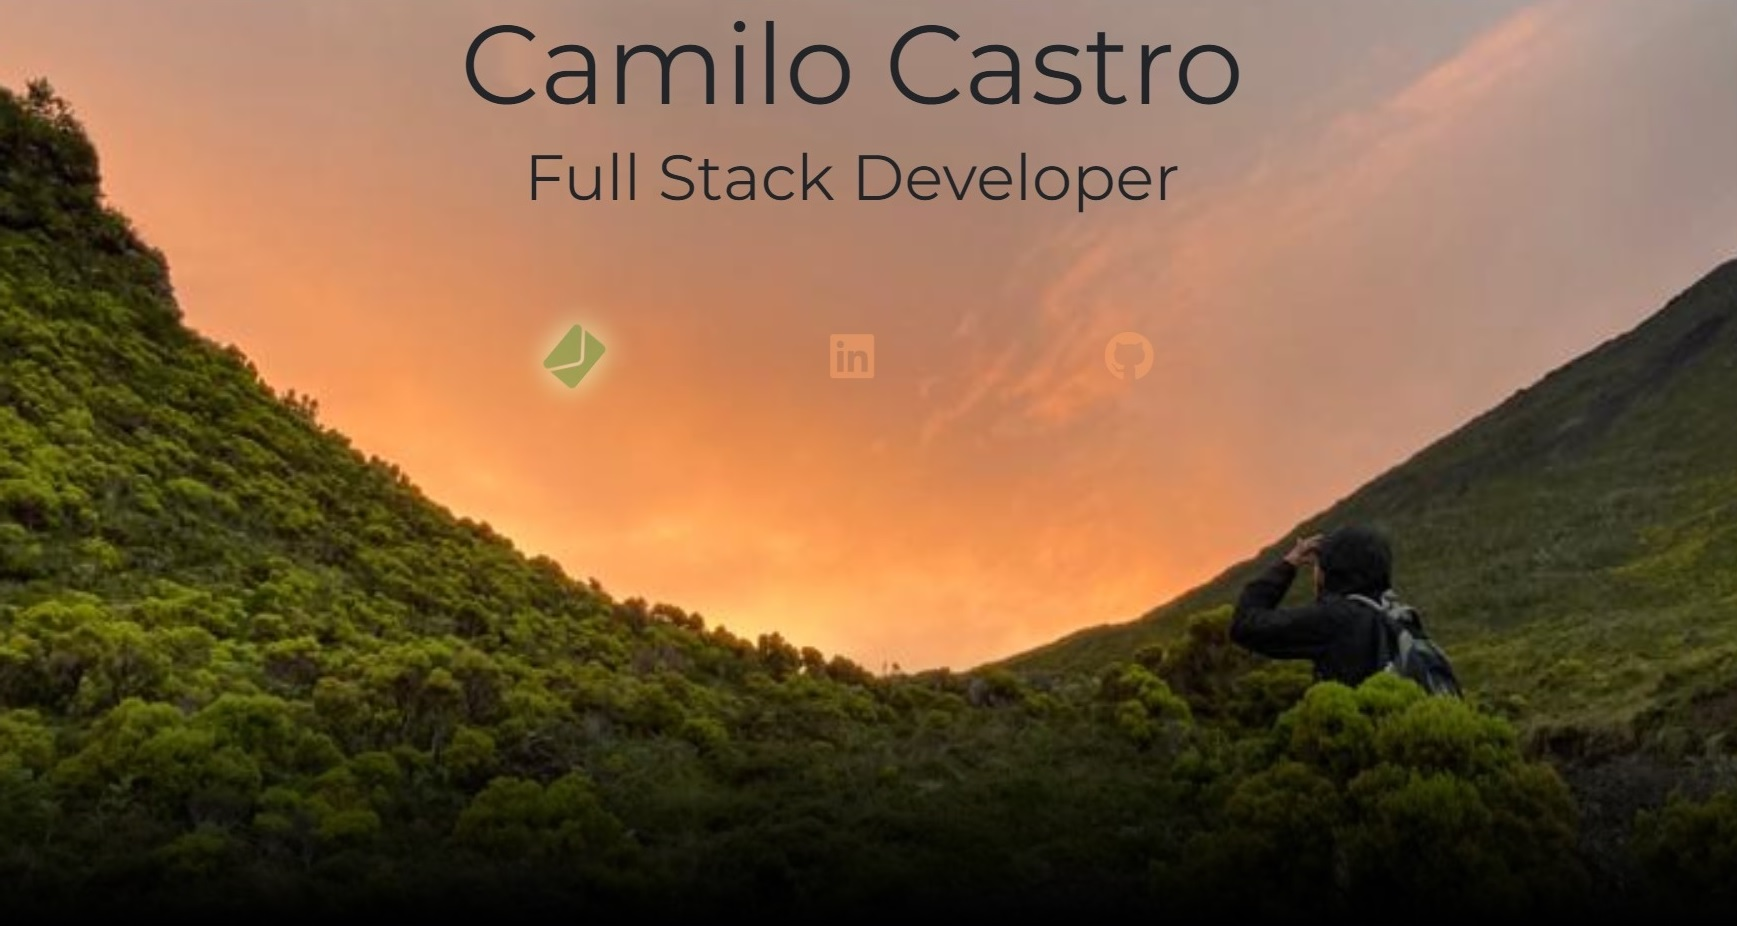
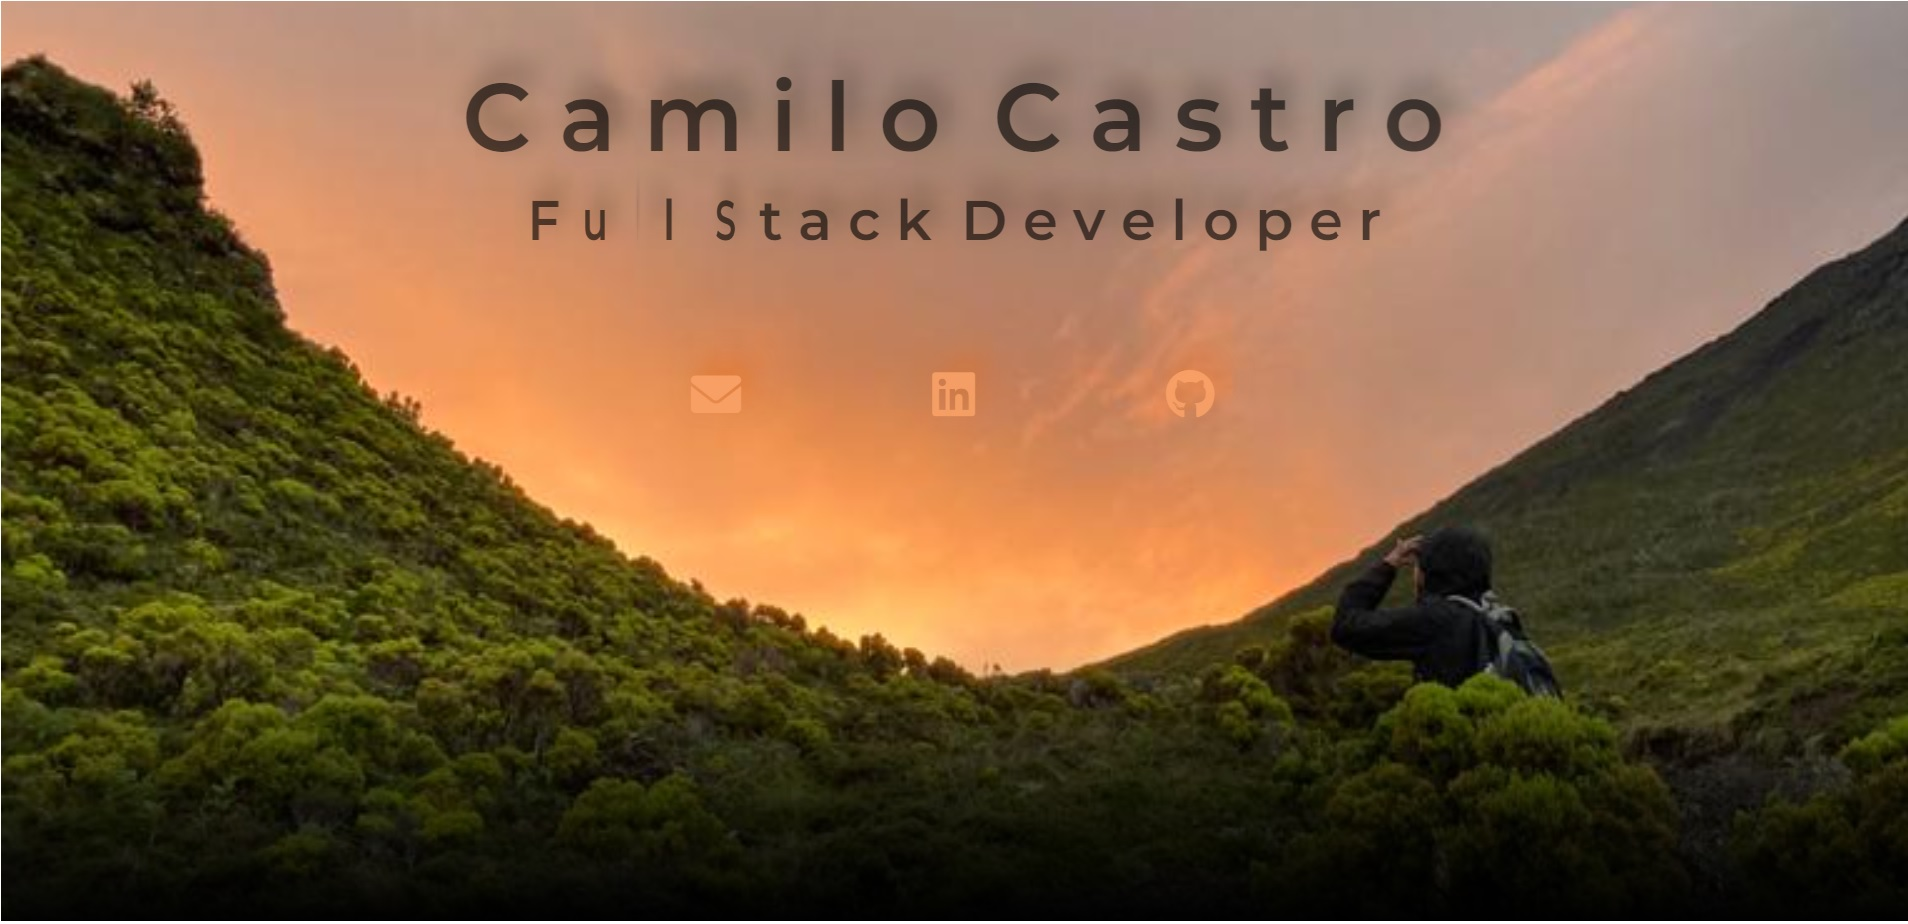
commit

diff --git a/style.css b/style.css
@@ -1,62 +1,131 @@
-@import url("https://fonts.googleapis.com/css?family=Montserrat&display=swap");
+@import url('https://fonts.googleapis.com/css2?family=Montserrat:wght@600&display=swap');
+
 body {
-    background:url('./resources/background.jpeg') center 46% / cover fixed;
-    font-family: 'Montserrat',sans-serif;
+    background: url('./resources/background.jpeg') center 46% / cover fixed;
+    font-family: 'Montserrat', sans-serif;
+    width: 100%;
+    color: rgba(0, 0, 0, 0.6);
+    text-shadow: 10px -15px 28px rgba(0, 0, 0, 0.4);
 }
+
+#name {
+    margin-top: 60px;
+}
+
 h1 {
-    font-size: 7rem;
+    font-size: 6rem;
 }
+
+#role {
+    margin-top: 5px;
+}
+
 h3 {
-    font-size: 4rem;
+    font-size: 3.5rem;
 }
-@media only screen and (max-width: 767px) {
-   /* Estilos para dispositivos com largura máxima de 767px */
-    body {
-        background:url('./resources/background.jpeg') ;
-        background-position: top 4% left 60%;
-   }
-    h1 {
-        font-size: 2.5rem;
-   }
-    h3 {
-        font-size: 1.5rem;
-   }
-  
+
+span {
+    display: inline-block;
+    animation: flip 9s infinite;
+    animation-delay: calc(.2s * var(--i))
 }
-@media only screen and (min-width: 768px) and (max-width: 991px) {
-   /* Estilos para dispositivos com largura entre 768px e 991px */
-    body {
-        background:url('./resources/background.jpeg') cover;
-   }
-    h1 {
-        font-size: 4.5rem;
-   }
-    h3 {
-        font-size:3rem;
-   }
+
+#icons {
+    margin-top: 100px;
 }
+
+.btn {
+    color: rgba(249, 161, 102);
+    transition: all 0.5s;
+    position: relative;
+    font-size: 50px;
+    opacity: 90%;
+    text-shadow: 10px -15px 28px rgba(234, 109, 25, 0.58);
+}
+
+.btn:hover, .btn:focus, .btn:active {
+    transform: scale(1.1) rotate(360deg);
+    text-shadow: 0px 0px 30px white, 0px 0px 30px white;
+    transition: all 0.5s;
+    opacity: 100%;
+}
+
+.fa-envelope:hover, .fa-envelope:focus, .fa-envelope:active{
+    color: #D44638;
+}
+
+.fa-linkedin:hover, .fa-linkedin:focus, .fa-linkedin:active{
+    color: #0072b1;
+}
+
+.fa-github:hover, .fa-github:focus, .fa-github:active {
+    color: #171515;
+}
+
 .overlay {
-    position: absolute; 
+    position: absolute;
     bottom: 0;
     left: 0;
     width: 100%;
     height: 30%;
     background-image: linear-gradient(to bottom, rgba(0, 0, 0, 0), rgba(0, 0, 0, 1));
-  }
-.btn {
-	color:rgba(249, 161, 102, 0.965); 
-	transition: all 0.5s;
-    position:relative;
-    margin: 40px;
-    font-size: 50px;
-    opacity: 60%;
-    margin-top: 100px;
-    text-decoration: none;
 }
-.btn:hover {
-    transform: scale(1.1) rotate(360deg);;
-    text-shadow: 0px 0px 30px white, 0px 0px 30px white, 0px 0px 30px rgb(196, 255, 2);
-    transition: all 0.5s;
-    color: rgb(77, 179, 77);
-    opacity: 50%;
+
+@media only screen and (max-width: 767px) {
+
+    /* Estilos para dispositivos com largura máxima de 767px */
+    body {
+        background: url('./resources/background.jpeg') top 4% left 60%;
+       
+    }
+
+    #name{
+        margin-top: 100px;
+    }
+
+    h1 {
+        font-size: 2rem;
+    }
+
+    h3 {
+        font-size: 1.2rem;
+    }
+
+    #icons {
+        margin-top: 150px;
+    }
+
+    .btn{
+        font-size: 35px;
+    }
+
+}
+
+@media only screen and (min-width: 768px) and (max-width: 991px) {
+
+    /* Estilos para dispositivos com largura entre 768px e 991px */
+    body {
+        background: url('./resources/background.jpeg') cover;
+    }
+
+    h1 {
+        font-size: 4rem;
+    }
+
+    h3 {
+        font-size: 2rem;
+    }
+
+    #icons {
+        margin-top: 125px;
+    }
+    
+}
+
+@keyframes flip {
+
+    0%,
+    80% {
+        transform: rotateY(360deg)
+    }
 }

diff --git a/index.html b/index.html
@@ -1,31 +1,69 @@
 <!DOCTYPE html>
 <html lang="en">
+
 <head>
     <meta charset="UTF-8">
     <meta name="viewport" content="width=device-width, initial-scale=1.0">
     <link rel="stylesheet" href="https://cdn.jsdelivr.net/npm/bootstrap@4.6.2/dist/css/bootstrap.min.css">
     <link rel="stylesheet" href="https://cdnjs.cloudflare.com/ajax/libs/font-awesome/6.0.0-beta3/css/all.min.css">
     <link rel="stylesheet" href="style.css">
-    <title>Document</title>
+    <title>Camilo Castro - Full Stack Developer</title>
 </head>
+
 <body>
     <div class="container text-center">
         <div class="row">
-            <div class="col">
-                <h1>Camilo Castro</h1>
+            <div class="col" id="name">
+                <h1>
+                    <span style="--i:1">C</span>
+                    <span style="--i:2">a</span>
+                    <span style="--i:3">m</span>
+                    <span style="--i:4">i</span>
+                    <span style="--i:5">l</span>
+                    <span style="--i:6">o</span>
+                    <span style="--i:7"> </span>
+                    <span style="--i:8">C</span>
+                    <span style="--i:9">a</span>
+                    <span style="--i:10">s</span>
+                    <span style="--i:11">t</span>
+                    <span style="--i:12">r</span>
+                    <span style="--i:13">o</span>
+                </h1>
             </div>
         </div>
         <div class="row">
-            <div class="col">
-                <h3>Full Stack Developer</h3>
+            <div class="col" id="role">
+                <h3>
+                    <span style="--i:14">F</span>
+                    <span style="--i:15">u</span>
+                    <span style="--i:16">l</span>
+                    <span style="--i:17">l</span>
+                    <span style="--i:18"> </span>
+                    <span style="--i:19">S</span>
+                    <span style="--i:20">t</span>
+                    <span style="--i:21">a</span>
+                    <span style="--i:22">c</span>
+                    <span style="--i:23">k</span>
+                    <span style="--i:24"> </span>
+                    <span style="--i:25">D</span>
+                    <span style="--i:26">e</span>
+                    <span style="--i:27">v</span>
+                    <span style="--i:28">e</span>
+                    <span style="--i:29">l</span>
+                    <span style="--i:30">o</span>
+                    <span style="--i:31">p</span>
+                    <span style="--i:32">e</span>
+                    <span style="--i:33">r</span>
+                </h3>
             </div>
         </div>
-        <div class="d-flex flex-row">
+        <div class="d-flex flex-row" id="icons">
             <div class="col-4 text-right">
-                <a href="mailto:camilojmcastro.com" class="fa-solid fa-envelope btn" target="_blank"></a>
+                <a href="mailto:camilojmcastro.com" class="fa-solid fa-envelope btn"></a>
             </div>
             <div class="col-4">
-                <a href="https://www.linkedin.com/in/camilojmcastro/" class="fa-brands fa-linkedin btn" target="_blank"></a>
+                <a href="https://www.linkedin.com/in/camilojmcastro/" class="fa-brands fa-linkedin btn"
+                    target="_blank"></a>
             </div>
             <div class="col-4 text-left">
                 <a href="https://github.com/Camilojmcastro" class="fa-brands fa-github btn" target="_blank"></a>
@@ -34,4 +72,5 @@
     </div>
     <div class="overlay"></div>
 </body>
+
 </html>
